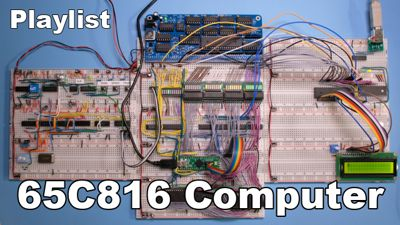
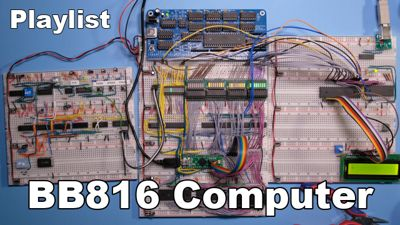
Episode 31

diff --git a/thumbnails/thumbnail.py b/thumbnails/thumbnail.py
@@ -37,7 +37,8 @@ episodes = [
     'CPU breakout\nPart 4',
     'EEPROM\nProgrammer',
     'CPU breakout\nPart 5',
-    '6551 UART\nwith USB adapter'
+    '6551 UART\nwith USB adapter',
+    'ROM programmer\nMem Diagnostics'
 ]
 
 path = './thumbnails/'
@@ -45,7 +46,7 @@ pathfmt = path + '{:d}.{}'
 
 for num, episode in enumerate(episodes, start=0):
 
-    if num < 30:
+    if num < 31:
         continue
 
     with Image.open(pathfmt.format(num, 'png')) as im:
@@ -57,7 +58,7 @@ for num, episode in enumerate(episodes, start=0):
         canvas.text((image_width-50,0+50), '{:d}'.format(num), font=font, fill='#FFFFFF', stroke_fill='#000000', stroke_width=5, anchor="rt")
 
         font = ImageFont.truetype('Arial Black.ttf', size=120)
-        canvas.text((image_width/2,image_height-30), "65C816 Computer", font=font, fill='#FFFFFF', stroke_fill='#000000', stroke_width=5, anchor="mb")
+        canvas.text((image_width/2,image_height-30), "BB816 Computer", font=font, fill='#FFFFFF', stroke_fill='#000000', stroke_width=5, anchor="mb")
 
         font = ImageFont.truetype('Arial Black.ttf', size=80)
         canvas.multiline_text((0+30,0), episode, font=font, fill='#FFFFFF', stroke_fill='#000000', stroke_width=3)
@@ -71,7 +72,7 @@ with Image.open(pathfmt.format(len(episodes)-1, 'png')) as im:
 
     canvas = ImageDraw.Draw(img)
     font = ImageFont.truetype('Arial Black.ttf', size=60)
-    canvas.text((playlist_width/2,playlist_height-15), "65C816 Computer", font=font, fill='#FFFFFF', stroke_fill='#000000', stroke_width=2, anchor="mb")
+    canvas.text((playlist_width/2,playlist_height-15), "BB816 Computer", font=font, fill='#FFFFFF', stroke_fill='#000000', stroke_width=2, anchor="mb")
 
     font = ImageFont.truetype('Arial Black.ttf', size=40)
     canvas.multiline_text((0+15,0), 'Playlist', font=font, fill='#FFFFFF', stroke_fill='#000000', stroke_width=1)
